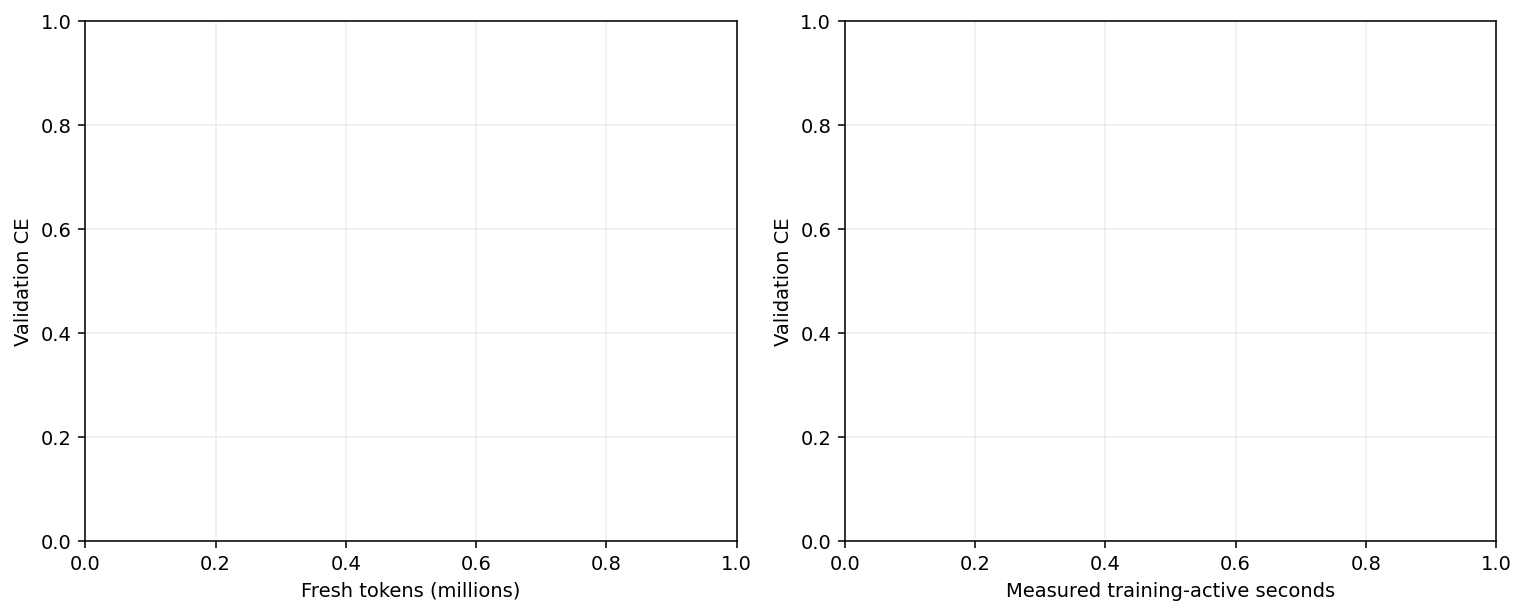
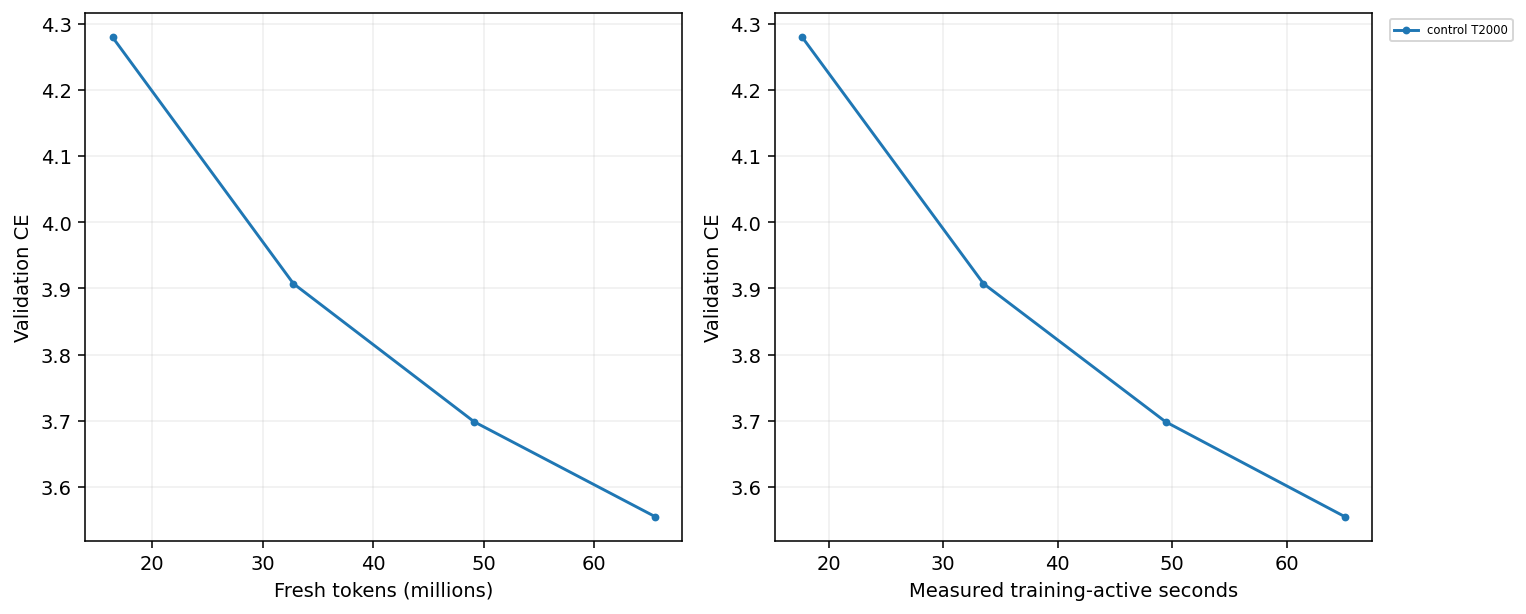
Update live Muon experiment results

diff --git a/research/unnormalized_muon/RESULTS.md b/research/unnormalized_muon/RESULTS.md
@@ -65,6 +65,11 @@ One B300 per job. CE is token cross-entropy (nats); lower is better. Rows with d
 | um-lens-check-4-time-layer | Clean GapWD layer uniform v2 c-in-Q armijo cap0.02/stable time2.0s fixed_lambda=0.18375 WD:standard(0) | 1 | 0 | 0.04 | 10.394308 | 3.148566 | — | 83.55 |
 | um-lens-check-5-creative | Clean GapWD layer uniform v2 c-in-Q armijo cap0.02/stable fixed_lambda=0.18375 WD:standard(0) | 64 | 0 | 0.04 | 6.337770 | 1.920751 | — | 96.43 |
 | um-lens-check-6-periodic | Clean GapWD joint uniform v2 c-in-Q quadratic cap0.02/stable fixed_lambda=0.18375 WD:standard(0) | 64 | 0 | 0.04 | 6.490925 | 1.967030 | — | 95.36 |
+| um-lens-check-7-warm-time-control | Clean Native cooldown v2 c-in-Q time5.0s fixed_lambda=0.18375 WD:standard(0) | 96 | 0 | 0.04 | 6.041687 | 1.831145 | — | 81.78 |
+| um-lens-check-8-warm-time-layer | Clean GapWD layer uniform v2 c-in-Q armijo cap0.02/stable time5.0s fixed_lambda=0.18375 WD:standard(0) | 50 | 0 | 0.04 | 6.365249 | 1.929079 | — | 85.49 |
+| um-lens-main-control-lr0p02 | Clean Native cooldown v2 c-in-Q fixed_lambda=0.18375 WD:standard(0) | 2000 | 0 | 0.02 | 3.568986 | 1.081936 | — | 141.52 |
+| um-lens-main-control-lr0p04 | Clean Native cooldown v2 c-in-Q fixed_lambda=0.18375 WD:standard(0) | 2000 | 0 | 0.04 | 3.554822 | 1.077668 | — | 133.67 |
+| um-lens-main-control-lr0p08 | Clean Native cooldown v2 c-in-Q fixed_lambda=0.18375 WD:standard(0) | 2000 | 0 | 0.08 | 3.586261 | 1.087199 | — | 139.40 |
 | um-screen-00-0-native-lr0p005 | Native cooldown | 2000 | 0 | 0.005 | 3.734536 | 1.132046 | — | 145.49 |
 | um-screen-00-1-scaled-lr0p0002 | Unnormalized cooldown | 2000 | 0 | 0.0002 | 4.818060 | 1.460343 | — | 153.42 |
 | um-screen-00-2-constant-lr0p0002 | Unnormalized constant | 2000 | 0 | 0.0002 | 4.581043 | 1.388601 | — | 151.98 |
@@ -104,7 +109,7 @@ One B300 per job. CE is token cross-entropy (nats); lower is better. Rows with d
 
 Review of um-fw-diagnostic-001: Compiled training f0 compared against functional candidate losses; vanishing-step mismatch2-4e-5 exceeded tolerance, leading to curvature1e186 and45 skipped steps. Replaced by paired functional reference and candidates; retain all645 measured forwards and GPUcost.
 
-Conservative charged/reserved total: 6.5803 / 30 B300 GPU-hours. Includes prior smoke/failed attempts and current maximum-duration reservations. Six-slot central queue; one B300 per run.
+Conservative charged/reserved total: 8.7871 / 30 B300 GPU-hours. Includes prior smoke/failed attempts and current maximum-duration reservations. Six-slot central queue; one B300 per run.
 
 CLEAN geometry disables row equilibration and NorMuon. Original clean runs use zero matrix decay; new WD runs explicitly label standard or cautious decay and their CLI coefficient. Same five Polar Express steps and Frobenius correction; scale by the per-matrix nonnegative FP32 inner product of the native Nesterov input with the NS/Frobenius direction. Shape scaling occurs once outside the scalar. Legacy rows retain production extras and must be compared separately. Constant schedule changes only matrix LR; auxiliary schedules and momentum remain matched.
 

diff --git a/research/unnormalized_muon/FW_LENS_RESULTS.md b/research/unnormalized_muon/FW_LENS_RESULTS.md
@@ -15,6 +15,11 @@ Token-based schedule curves are descriptive. Independently scheduled equal-time 
 | um-lens-check-4-time-layer | layer | 2.000s | 0 | 10.394308 | — | 8.964 | 2 | 0.000 | 83.55 |
 | um-lens-check-5-creative | layer | 64 updates | 0 | 6.337770 | — | 14.474 | 128 | 0.000 | 96.43 |
 | um-lens-check-6-periodic | joint | 64 updates | 0 | 6.490925 | — | 14.250 | 48 | 0.000 | 95.36 |
+| um-lens-check-7-warm-time-control | cooldown | 5.000s | 0 | 6.041687 | — | 5.034 | 0 | 34.360 | 81.78 |
+| um-lens-check-8-warm-time-layer | layer | 5.000s | 0 | 6.365249 | — | 5.016 | 100 | 31.631 | 85.49 |
+| um-lens-main-control-lr0p02 | control | 2000 updates | 0 | 3.568986 | — | 71.320 | 0 | 31.621 | 141.52 |
+| um-lens-main-control-lr0p04 | control | 2000 updates | 0 | 3.554822 | — | 65.063 | 0 | 30.883 | 133.67 |
+| um-lens-main-control-lr0p08 | control | 2000 updates | 0 | 3.586261 | — | 71.566 | 0 | 31.026 | 139.40 |
 
 ## Adaptive diagnostics and contraction
 
@@ -27,5 +32,6 @@ Contraction is the actual coefficient product_t(1-lambda*eta_l,t), represented i
 | um-lens-check-4-time-layer | 1/1 | 0 | 0 | 0 | 0.005 | 1 | -9.188e-05 to 0 | 0.368177 |
 | um-lens-check-5-creative | 64/64 | 0 | 0.011606 | 0.0021326 | 1.7462e-12 | 1 | -0.1297 to -0.09009 | 0.379675 |
 | um-lens-check-6-periodic | 16/64 | 48 | 0.0042842 | 0.00078723 | 0.0075 | 0 | -0.06363 to -0.06363 | 0.366569 |
+| um-lens-check-8-warm-time-layer | 50/50 | 0 | 0.02 | 0.003675 | 2.2352e-10 | 1 | -0.179 to -0.1481 | 0.537713 |
 
 Curvature values in Armijo variants parameterize proposals; their acceptance is NOT a certificate of the quadratic upper model. Final spectral ratios are lambda*||W_l||op/c_l; native approximate NS output is not certified to have unit spectral norm. Initial/final iterate feasibility alone does not certify oracle accuracy. Cold two-second clock checks intentionally permit one-update overshoot; do not use them as quality endpoints.

diff --git a/research/unnormalized_muon/DETAILED_EVAL.md b/research/unnormalized_muon/DETAILED_EVAL.md
@@ -253,3 +253,13 @@ um-lens-check-6-periodic: accepted 16/64; skipped nonpositive blocks 59; median 
 
 Timing seconds: direction=6.270, reference=1.728, candidates=0.259, auxiliary=0.606.
 
+| um-lens-check-7-warm-time-control | cooldown native | 0.1837499 | 96 | 6.041687 | 0 | 81.78 |
+| um-lens-check-8-warm-time-layer | layer native | 0.1837499 | 50 | 6.365249 | 100 | 85.49 |
+
+um-lens-check-8-warm-time-layer: accepted 50/50; skipped nonpositive blocks 70; median actual eta 0.02; median gamma 0.003675; median L 2.23517e-10; median trials 1; max measured spectral ratio lambda*||W||op=0.537713. Native approximate NS can violate the ideal unit-oracle premise; this is recorded, not hidden.
+
+Timing seconds: direction=1.317, reference=0.399, candidates=0.395, auxiliary=0.041.
+
+| um-lens-main-control-lr0p02 | cooldown native | 0.1837499 | 2000 | 3.568986 | 0 | 141.52 |
+| um-lens-main-control-lr0p04 | cooldown native | 0.1837499 | 2000 | 3.554822 | 0 | 133.67 |
+| um-lens-main-control-lr0p08 | cooldown native | 0.1837499 | 2000 | 3.586261 | 0 | 139.40 |
